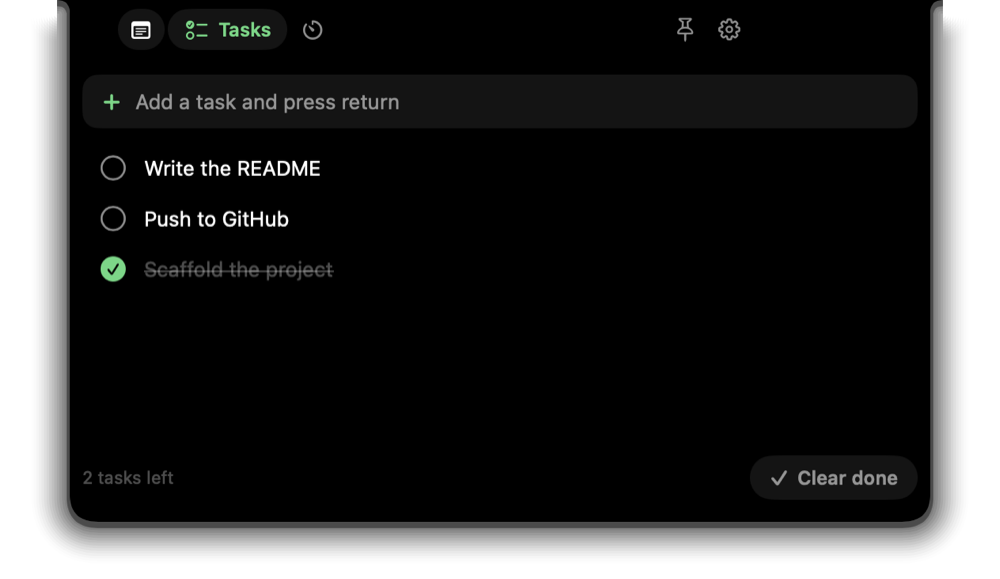
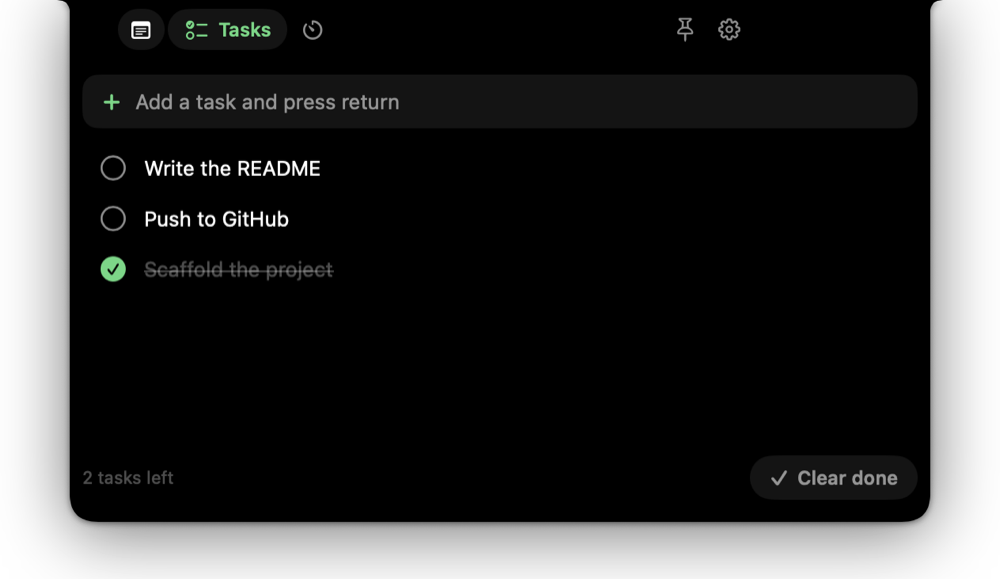
Restore the soft drop shadow, unclipped on every side
The stroke-based shadow read as a halo. Back to SwiftUI's soft shadow, but
applied in ShadowedNotch: a view spanning the whole window that fills the
notch path at its offset, so the shadow's render bounds are the window's and
it can't clip at the shape's edge. Measured against a plain white backdrop
the falloff is smooth above, beside and below the shape. Screenshots
re-captured.

Changed region(s): [[0.031, 0.0, 0.961, 0.9326], [0.155, 0.9637, 0.868, 0.9948]]

diff --git a/Sources/NotchDeck/Views/NotchRootView.swift b/Sources/NotchDeck/Views/NotchRootView.swift
@@ -12,17 +12,14 @@ struct NotchRootView: View {
     /// The collapsed top pill stays flat so it blends into the hardware notch.
     private var shadowStrength: Double {
         if vm.isExpanded { return 1 }
-        return vm.edge == .top ? 0 : 0.75
+        return vm.edge == .top ? 0 : 0.7
     }
 
     var body: some View {
         ZStack(alignment: vm.alignment) {
-            SoftShadow(shape: shape, strength: shadowStrength)
-                .frame(width: vm.currentSize.width, height: vm.currentSize.height)
-
-            shape
-                .fill(Theme.background)
-                .frame(width: vm.currentSize.width, height: vm.currentSize.height)
+            ShadowedNotch(size: vm.currentSize, edge: vm.edge,
+                          bottomRadius: vm.isExpanded ? NotchViewModel.bottomRadius : 12,
+                          strength: shadowStrength)
 
             Group {
                 if vm.isExpanded {
@@ -41,31 +38,39 @@ struct NotchRootView: View {
     }
 }
 
-/// A soft drop shadow built from concentric strokes of the shape. It uses no
-/// blur or shadow filters because the compositor drops those for this
-/// transparent panel; stacked translucent strokes give a quadratic falloff
-/// that reads like a blurred shadow.
-struct SoftShadow: View {
-    let shape: NotchShape
+/// Draws the notch silhouette with a soft drop shadow. The path is laid out in
+/// a view that spans the whole window (not just the shape), so the shadow's
+/// render bounds are the window bounds and nothing gets clipped at the edge
+/// of the shape. Animates with the shape's size like the `.frame` on the fill.
+struct ShadowedNotch: View, Animatable {
+    var size: CGSize
+    var edge: NotchEdge
+    var bottomRadius: CGFloat
     var strength: Double
-    var spread: CGFloat = 26
-    var steps = 16
-    var edgeOpacity: Double = 0.5
+
+    var animatableData: AnimatablePair<AnimatablePair<CGFloat, CGFloat>, CGFloat> {
+        get { AnimatablePair(AnimatablePair(size.width, size.height), bottomRadius) }
+        set { size = CGSize(width: newValue.first.first, height: newValue.first.second); bottomRadius = newValue.second }
+    }
 
     var body: some View {
-        ZStack {
-            // Tight contact shadow right at the edge.
-            shape.stroke(Color.black.opacity(strength * 0.35), lineWidth: 4)
-            // Ambient falloff: stroke i reaches spread * t outside the edge; the
-            // inner half is hidden under the fill. Outer strokes are fainter.
-            ForEach(0..<steps, id: \.self) { i in
-                let t = Double(i + 1) / Double(steps)
-                shape.stroke(Color.black.opacity(strength * edgeOpacity * 2 / Double(steps) * (1 - t) * 1.6),
-                             lineWidth: spread * 2 * t)
-            }
+        GeometryReader { geo in
+            let rect = shapeRect(in: geo.size)
+            let shape = NotchShape(edge: edge, earRadius: NotchViewModel.earRadius, bottomRadius: bottomRadius)
+            Path(shape.path(in: rect).cgPath)
+                .fill(Theme.background)
+                .shadow(color: .black.opacity(strength * 0.5), radius: 2, y: 1)
+                .shadow(color: .black.opacity(strength * 0.55), radius: 22, y: 6)
         }
-        .offset(y: 2)
         .allowsHitTesting(false)
+    }
+
+    private func shapeRect(in window: CGSize) -> CGRect {
+        switch edge {
+        case .top: return CGRect(x: (window.width - size.width) / 2, y: 0, width: size.width, height: size.height)
+        case .left: return CGRect(x: 0, y: (window.height - size.height) / 2, width: size.width, height: size.height)
+        case .right: return CGRect(x: window.width - size.width, y: (window.height - size.height) / 2, width: size.width, height: size.height)
+        }
     }
 }
 

diff --git a/README.md b/README.md
@@ -143,12 +143,12 @@ does the same signing. To sign a release by hand instead of in CI, use
   `auxiliaryTopRightArea` to size the sliver exactly like the physical notch,
   and computes frames for the top, left and right placements.
 - `NotchShape` draws the notch silhouette (concave ears, rounded free corners)
-  and rotates it for side placements. Its drop shadow (`SoftShadow`) is a stack
-  of translucent strokes rather than SwiftUI's `.shadow`, because the
-  compositor drops blur/shadow filters for this transparent panel and the
-  window-server shadow is too faint for a non-key panel. The window carries a
-  transparent margin for it and toggles `ignoresMouseEvents` so clicks in the
-  margin fall through to whatever is underneath.
+  and rotates it for side placements. `ShadowedNotch` fills that path inside a
+  view that spans the whole window and applies the drop shadow there, so the
+  shadow's render bounds are the window's and it never clips at the shape's
+  edge. The window carries a transparent margin for the shadow and toggles
+  `ignoresMouseEvents` so clicks in the margin fall through to whatever is
+  underneath.
 - `PomodoroEngine` derives the remaining time from an end date so it stays
   accurate if timers are throttled; the cycle logic is covered by unit tests.
 - `AppStore` is a single `ObservableObject` persisted as JSON with debounced
